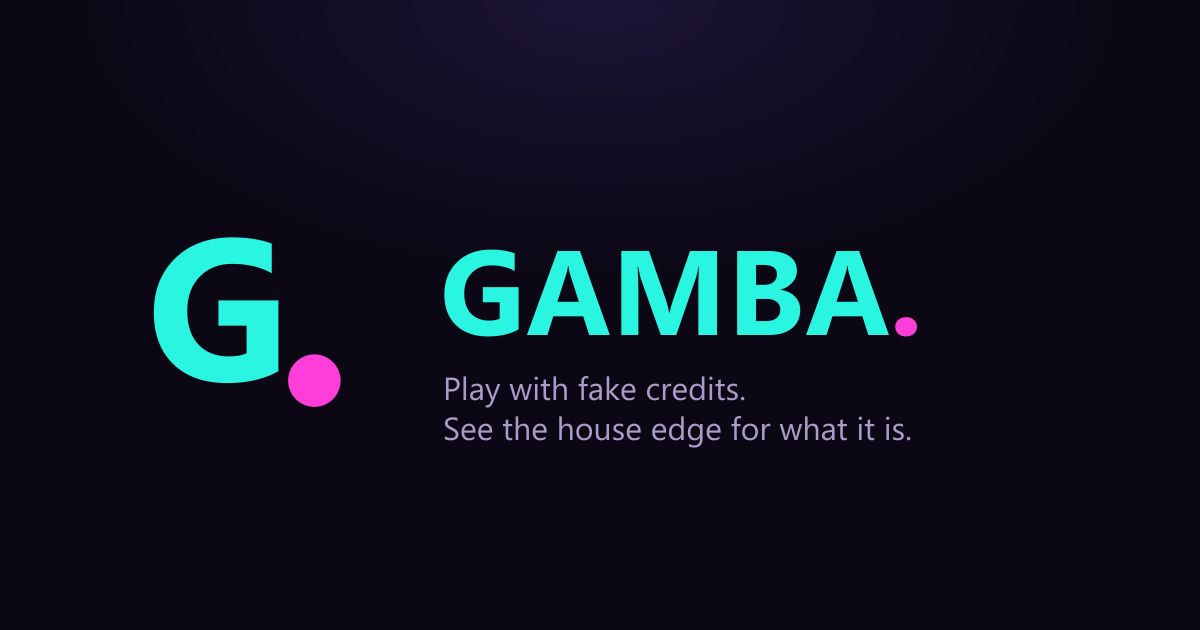
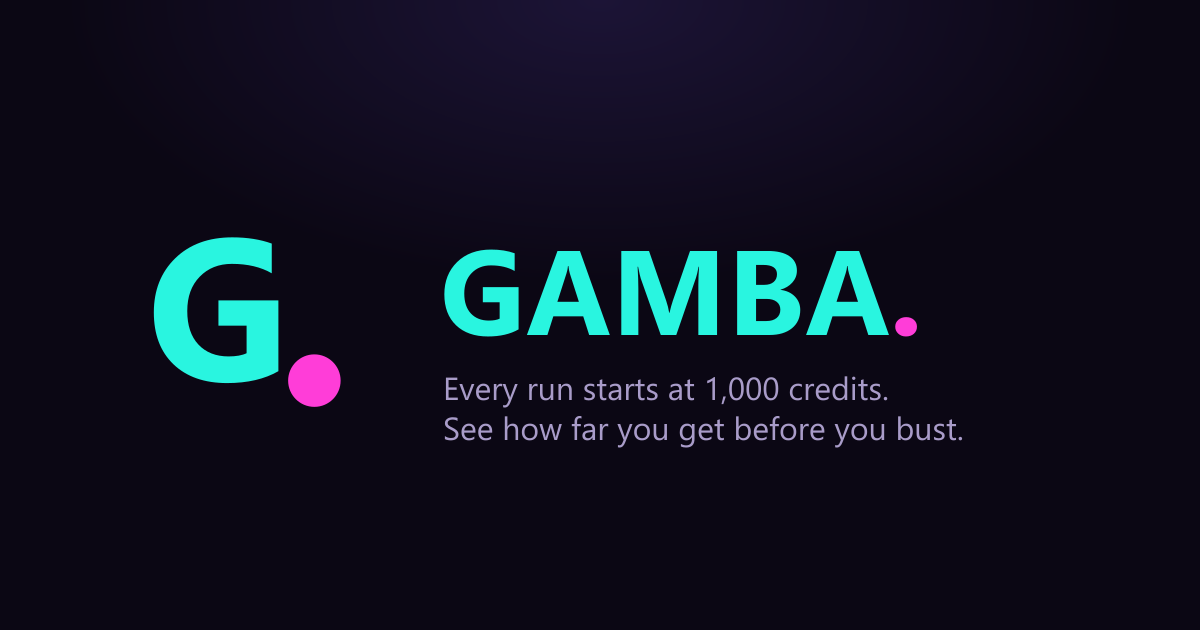
Reframe branding around the roguelike run, not the house edge
Swaps "see the house edge for what it is" for messaging about the actual
mechanic players experience — 1,000 credits, one run, see how far you get.
Applied everywhere the old line lived: page title, meta description,
Open Graph/Twitter cards (and the card image itself), and the PWA manifest
description.

Changed region(s): [[0.37, 0.6032, 0.8017, 0.7238]]

diff --git a/index.html b/index.html
@@ -8,21 +8,21 @@
     <meta name="theme-color" content="#0b0714" />
     <meta name="apple-mobile-web-app-capable" content="yes" />
     <meta name="apple-mobile-web-app-status-bar-style" content="black-translucent" />
-    <title>Gamba — Free Casino Simulator</title>
+    <title>Gamba — A Roguelike Casino</title>
 
-    <meta name="description" content="A risk-free casino simulator — play with fake credits and see the house edge for what it is." />
+    <meta name="description" content="A roguelike casino sim. Every run starts with 1,000 fake credits — see how far you get before you bust." />
 
     <meta property="og:type" content="website" />
     <meta property="og:url" content="https://gamba.insanealec.workers.dev/" />
-    <meta property="og:title" content="Gamba — Free Casino Simulator" />
-    <meta property="og:description" content="A risk-free casino simulator — play with fake credits and see the house edge for what it is." />
+    <meta property="og:title" content="Gamba — A Roguelike Casino" />
+    <meta property="og:description" content="A roguelike casino sim. Every run starts with 1,000 fake credits — see how far you get before you bust." />
     <meta property="og:image" content="https://gamba.insanealec.workers.dev/og-image.png" />
     <meta property="og:image:width" content="1200" />
     <meta property="og:image:height" content="630" />
 
     <meta name="twitter:card" content="summary_large_image" />
-    <meta name="twitter:title" content="Gamba — Free Casino Simulator" />
-    <meta name="twitter:description" content="A risk-free casino simulator — play with fake credits and see the house edge for what it is." />
+    <meta name="twitter:title" content="Gamba — A Roguelike Casino" />
+    <meta name="twitter:description" content="A roguelike casino sim. Every run starts with 1,000 fake credits — see how far you get before you bust." />
     <meta name="twitter:image" content="https://gamba.insanealec.workers.dev/og-image.png" />
   </head>
   <body>

diff --git a/vite.config.ts b/vite.config.ts
@@ -15,7 +15,7 @@ export default defineConfig({
       manifest: {
         name: 'Gamba',
         short_name: 'Gamba',
-        description: 'A risk-free casino simulator — play with fake credits and see the house edge for what it is.',
+        description: 'A roguelike casino sim. Every run starts with 1,000 fake credits — see how far you get before you bust.',
         theme_color: '#0b0714',
         background_color: '#0b0714',
         display: 'standalone',
